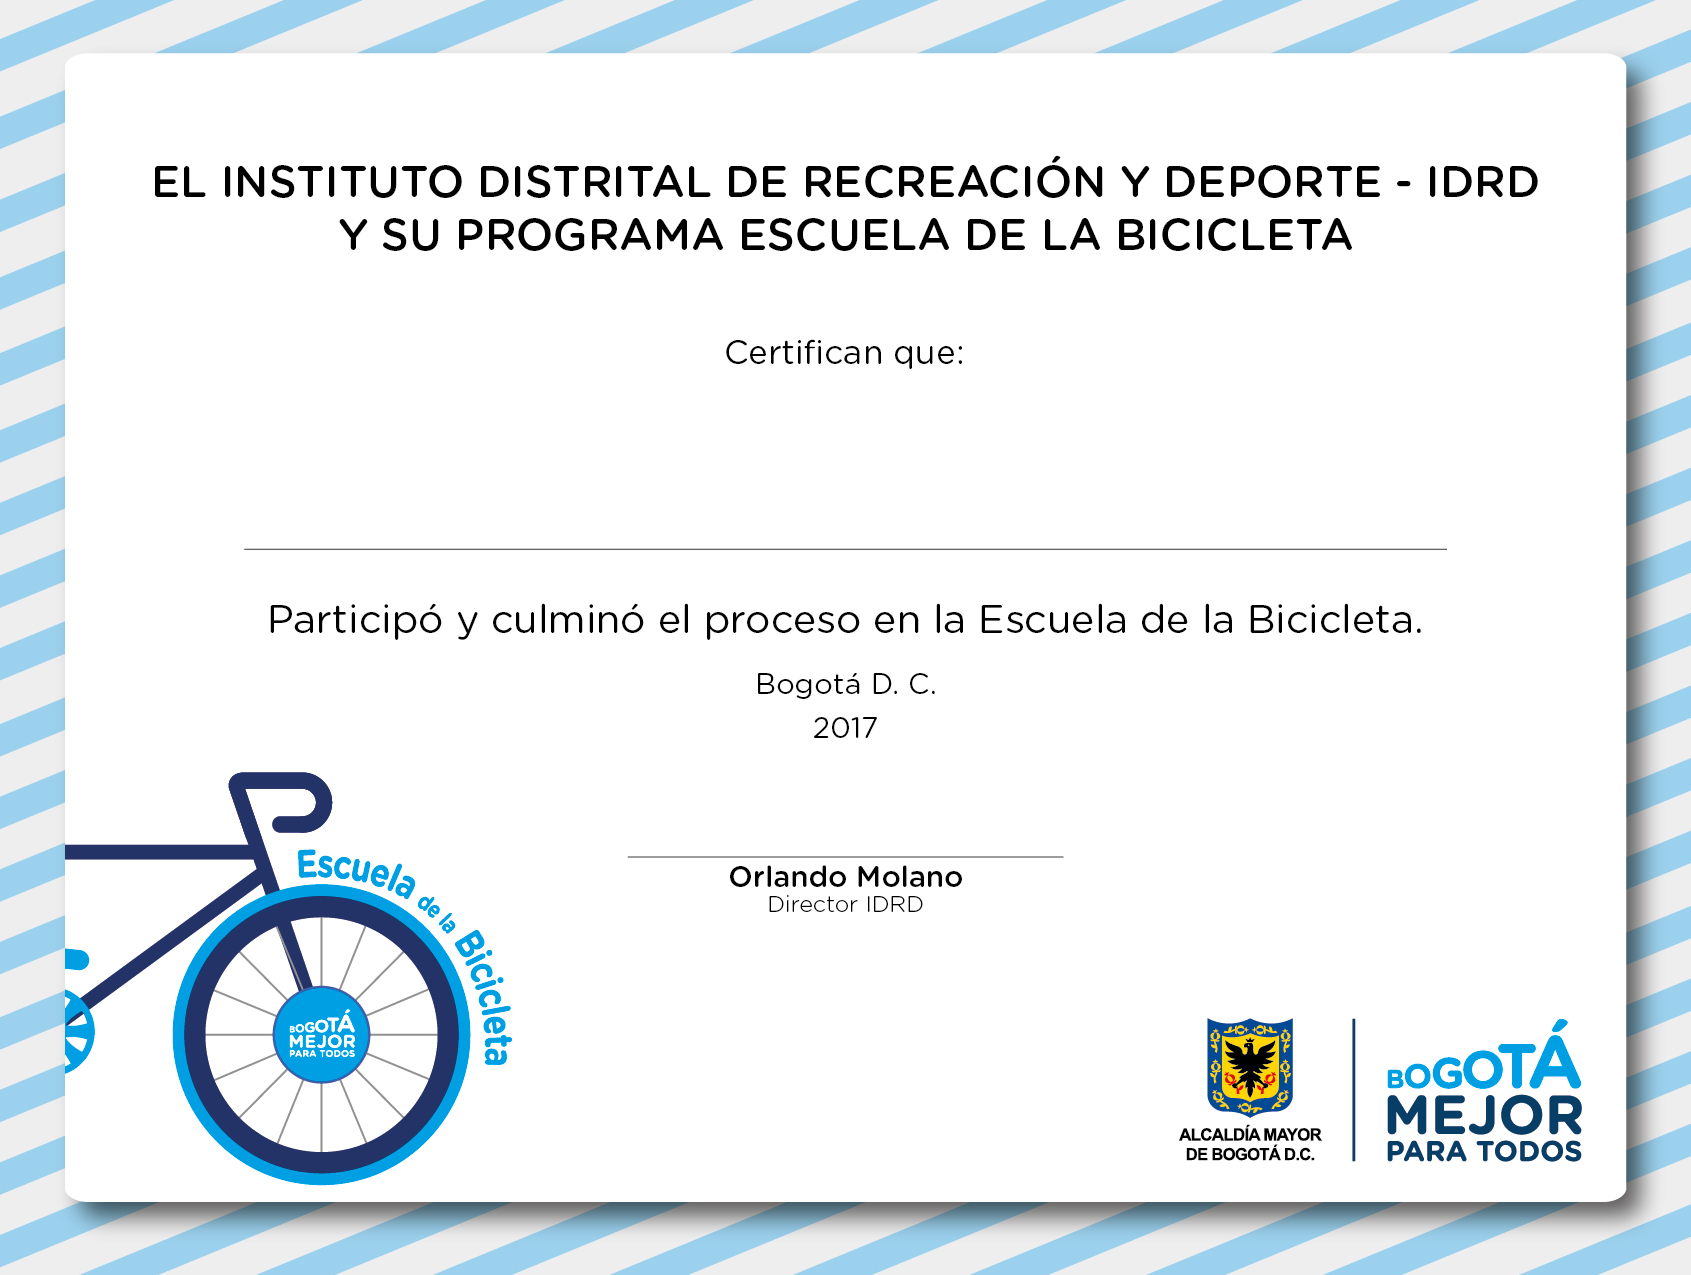
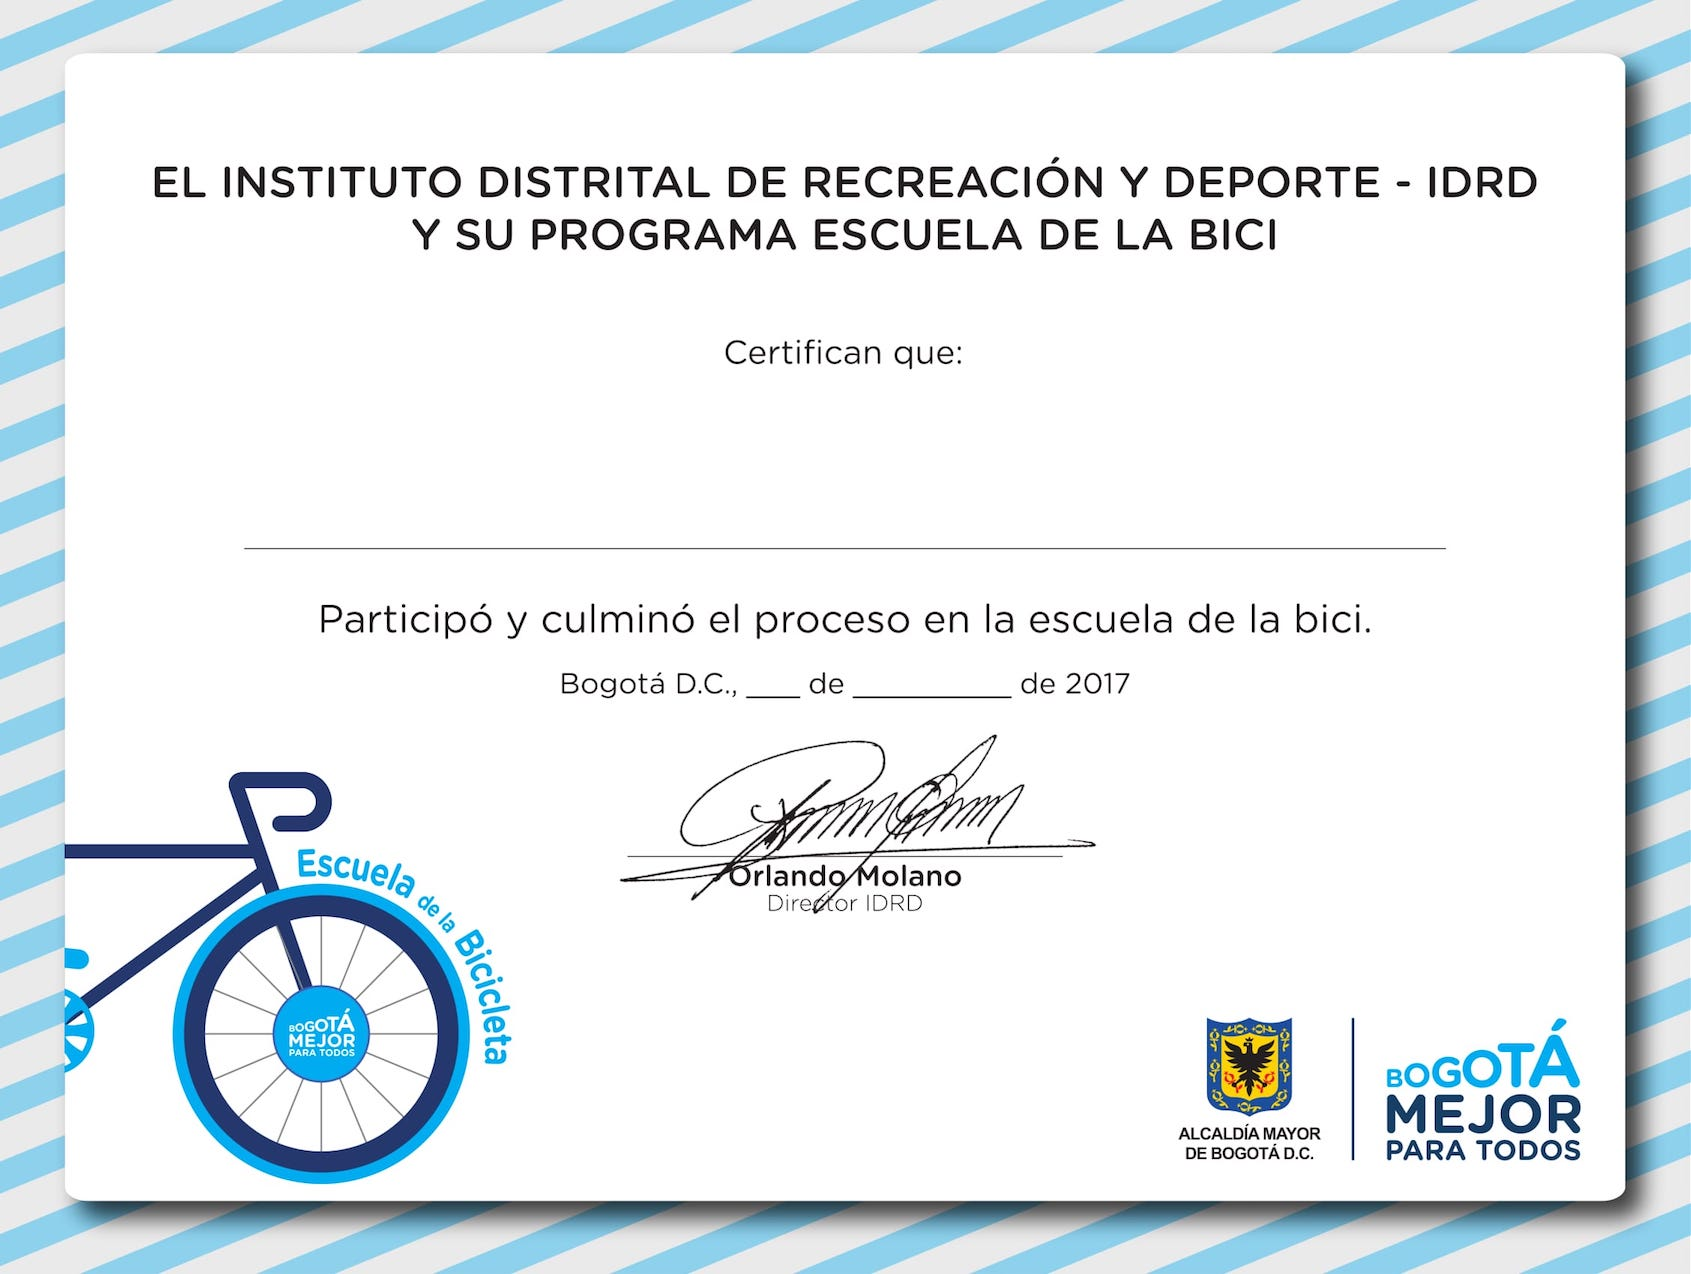
Ajuste del diploma

diff --git a/resources/views/idrd/certificados/diploma.blade.php b/resources/views/idrd/certificados/diploma.blade.php
@@ -1,5 +1,37 @@
+<?php
+    function mes($mes)
+    {
+        switch (+$mes)
+        {
+            case 1:
+                return 'Enero';
+            case 2:
+                return 'Febrero';
+            case 3:
+                return 'Marzo';
+            case 4:
+                return 'Abril';
+            case 5:
+                return 'Mayo';
+            case 6:
+                return 'Junio';
+            case 7:
+                return 'Julio';
+            case 8:
+                return 'Agosto';
+            case 9:
+                return 'Septiembre';
+            case 10:
+                return 'Octubre';
+            case 11:
+                return 'Noviembre';
+            case 12:
+                return 'Diciembre';
+        }
+    }
+?>
 <!doctype html>
-<html lang="s">
+<html lang="es">
 <head>
     <meta charset="UTF-8">
     <meta name="viewport"
@@ -14,7 +46,7 @@
             position:absolute;
             margin-top: -20px;
         }
-        h4 {
+        h4, .dia, .mes {
             font-family: Verdana, Helvetica, "Gill Sans", sans-serif;
             font-weight: 300;
             position: absolute;
@@ -24,10 +56,22 @@
             z-index: 10;
             font-size: 30px;
         }
+        .dia {
+            font-size: 20px;
+            top: 420px;
+            left: -95px;
+        }
+        .mes {
+            text-align: left;
+            font-size: 20px;
+            top: 420px;
+            left: 575px;
+        }
     </style>
 </head>
 <body>
     <img src="{{ asset('public/Img/diploma.jpg') }}" alt="" class="back">
     <h4>{{ $nombre }}</h4>
+    <span class="dia">{{ date('d') }}</span><span class="mes">{{ mes(date('m')) }}</span>
 </body>
 </html>
